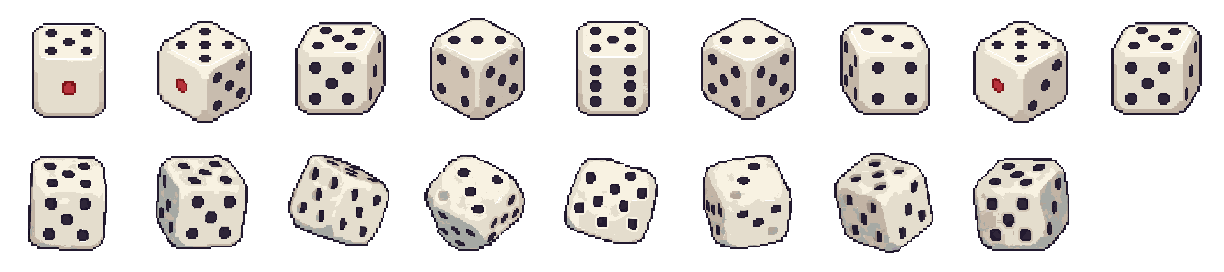
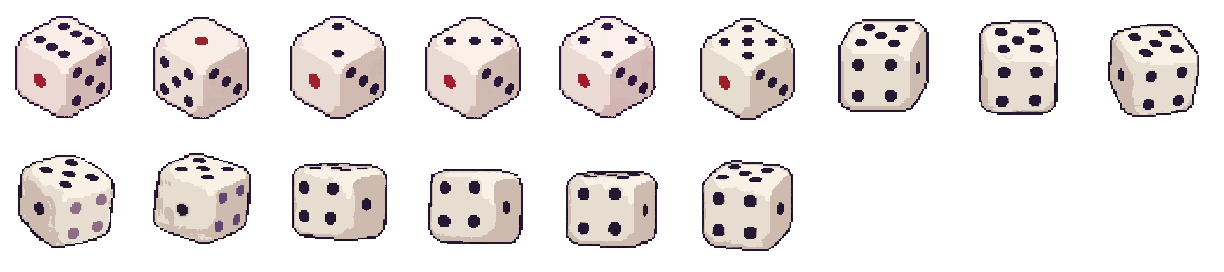
feat: dado novo da hero, com as seis faces de verdade
- Dice.zip de 2026-10-20 em art-source/dice-pixel (o antigo sai): parado, o dado mostra uma das seis faces em
  vista 3/4, com o valor de 1 a 6 no topo (o base tem o 5; os "Number_X_on_top", os outros). Começa no 6.
- O giro novo levanta o dado do chão girando; o oeste é o espelho exato do leste, como antes.
- Atlas do dado 13,4 KB (era 14,1); atlas do Kito sem mudança. A pose apoia na mesma linha (18/136), CSS igual.

diff --git a/src/lib/kito-playground.ts b/src/lib/kito-playground.ts
@@ -81,7 +81,7 @@ export function startKito({ hero, layer, sprite, hitbox, shadow, die, dieHitbox 
     drag: null as Drag | null,
     tap: null as null | { id: number; x: number; y: number; at: number },
   }
-  // O dado: parado mostra uma das oito faces; rolando, o giro; tremble é o tremor antes de pular quando clicado;
+  // O dado: parado mostra uma das seis faces (um valor no topo); rolando, o giro; tremble é o tremor antes de pular quando clicado;
   // thrown marca o arremesso da pessoa, que deixa o Kito tonto se acertá-lo.
   const d = { x: 0, y: 0, vx: 0, vy: 0, mode: 'rest' as 'rest' | 'air' | 'held', face: 0, phase: 0, rolling: false, thrown: false, tremble: 0, drag: null as Drag | null }
 

diff --git a/src/kito-sprites.ts b/src/kito-sprites.ts
@@ -139,29 +139,27 @@ export const kitoSprites = {
     "rows": 2,
     "faces": {
       "start": 0,
-      "count": 8
+      "count": 6
     },
     "roll": {
-      "start": 8,
+      "start": 6,
       "count": 9
     },
     "feet": [
       118,
-      123,
-      115,
+      119,
+      119,
+      119,
+      118,
       120,
-      116,
-      120,
+      112,
       115,
-      123,
-      115,
-      115,
-      113,
-      110,
-      115,
-      108,
-      113,
       117,
+      112,
+      108,
+      105,
+      108,
+      112,
       115
     ]
   }

diff --git a/DESIGN.md b/DESIGN.md
@@ -388,7 +388,7 @@ A partir de 4 relatos, uma faixa de borda a borda desliza devagar e sem parar (9
   - **Botão "Ver os jogos":** com o cursor ou o foco do teclado no botão, o Kito corre até embaixo dele e aponta, com brilhos, enquanto o cursor estiver lá. No piloto automático ele também vai até o botão e aponta por um instante.
   - **Plataformas:** o botão e a palavra destacada ("encontro.") são plataformas. Solto em cima deles (ou com os pés um pouco abaixo da borda, sem arremesso), o Kito fica ali até alguém carregá-lo de volta: anda só em cima da plataforma e, no piloto automático, só faz ações paradas. Não há animação de descida (decisão do responsável em 2026-10-18).
   - **Piloto automático** (celular sempre; desktop com o cursor fora da hero): começa correndo e acenando e depois alterna um deslocamento (andar, correr, disparar e às vezes tropeçar, empurrar a borda, chutar o dado, ir até o botão e apontar) com uma ação parada (pular, acenar, ser erguido por uma mão invisível, que é a dica de que dá para pegá-lo, saltitar com o coração, sentar), sem repetir seguido e com pausas curtas.
-  - **Dado** (pixel art do Dice.zip, mesma escala de pixel do Kito): fica no chão a 24 % da largura. Andando, o Kito empurra o dado, que rola devagar à frente dele; correndo, chuta. A pessoa pode arrastar e arremessar o dado, ou clicar nele: ele treme, pula e cai numa das oito faces, sorteada. Dado arremessado que acerta o Kito o deixa tonto.
+  - **Dado** (pixel art do Dice.zip, trocado em 2026-10-20; mesma escala de pixel do Kito): parado, mostra uma das seis faces em vista 3/4, com um valor de 1 a 6 no topo (começa no 6); o giro levanta o dado do chão. Fica no chão a 24 % da largura. Andando, o Kito empurra o dado, que rola devagar à frente dele; correndo, chuta. A pessoa pode arrastar e arremessar o dado, ou clicar nele: ele treme, pula e cai numa das oito faces, sorteada. Dado arremessado que acerta o Kito o deixa tonto.
   - **Tonto:** chacoalhar o Kito no colo (três trocas rápidas de sentido), arremessá-lo forte ou acertá-lo com o dado o deixa com estrelinhas girando, cambaleando, por quase dois segundos.
   - **Toque:** um toque na hero (fora de links e botões) leva o Kito até lá; tocar nele faz ele saltitar segurando o coração. Só o corpo dele segura a rolagem (`touch-action: none`); o resto da cena rola a página.
   - **Carregar:** pressionar e arrastar o Kito o leva para qualquer ponto da hero, por cima do texto, pendurado pelos pés soltos e balançando com a mão (quadros girados com RotSprite a partir do "erguido no ar"). Ao soltar ele cai com o impulso da mão: queda curta amortece, queda alta ou arremesso rola no chão. Uma sombra em degraus fica no chão e encolhe com a altura.
